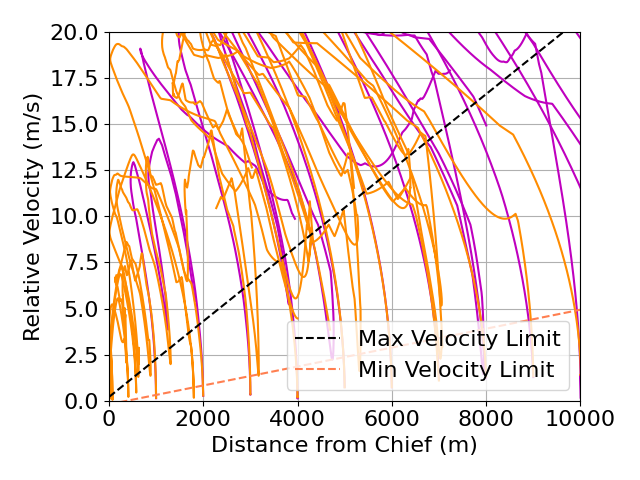
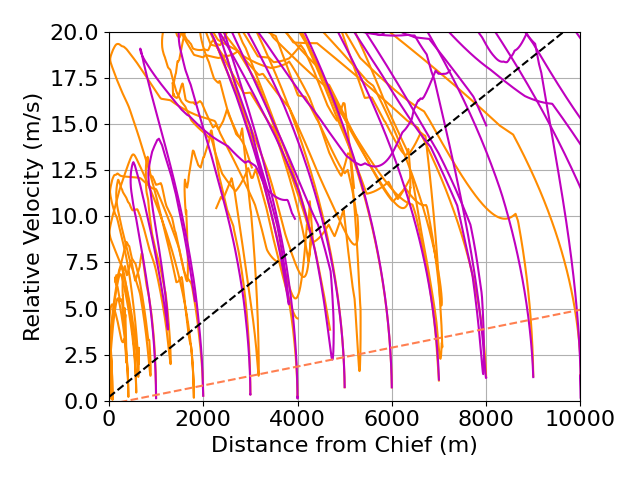
plots

diff --git a/RL/viewers/sc_test_cases.py b/RL/viewers/sc_test_cases.py
@@ -193,17 +193,14 @@ def main(Test='NoRTA', TrainingCases=['NoRTA'], RANGE=1000, ac_kwargs=dict(hidde
 	plt.plot([0, 10000],[-0.2, 4.935], '--', color='coral',label='Min Velocity Limit')
 	# plt.title('Velocity vs. Position')
 	if RANGE == 1000:
-		if Test == 'NoRTA':
-			plt.ylim([0, 5])
-		else:
-			plt.ylim([0, 2.5])
+		plt.ylim([0, 2.5])
 		plt.xlim([0, 1200])
 	elif RANGE == 10000:
 		plt.xlim([0, 10000])
 		plt.ylim([0, 20])
 	plt.xlabel('Distance from Chief (m)')
 	plt.ylabel('Relative Velocity (m/s)')
-	plt.legend()
+	# plt.legend()
 	plt.grid(True)
 
 	plt.figure(2)
@@ -218,6 +215,17 @@ def main(Test='NoRTA', TrainingCases=['NoRTA'], RANGE=1000, ac_kwargs=dict(hidde
 	plt.grid(True)
 	plt.xlabel('X position (m)')
 	plt.ylabel('Y position (m)')
+
+	plt.figure(3)
+	plt.plot(0,0,color='r', linewidth=2)
+	plt.plot(0,0,color='darkorange', linewidth=2)
+	plt.plot(0,0,color='b', linewidth=2)
+	plt.plot(0,0,color='lime', linewidth=2)
+	plt.plot(0,0,color='m', linewidth=2)
+	plt.plot(0,0,'--',color='black')
+	plt.plot(0,0,'--',color='coral')
+	plt.axis('off')
+	plt.legend(['Training with No RTA - HP','Training with No RTA','Training with SVL','Training with SBSF','Training with ASIF','Max Velocity Limit','Min Velocity Limit'], loc='upper center')
 
 	plt.show()
 
